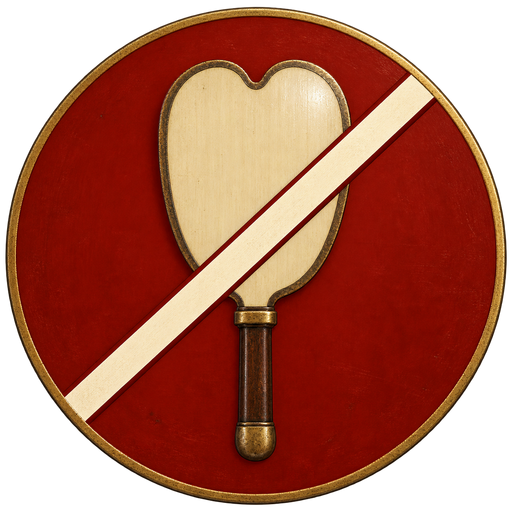
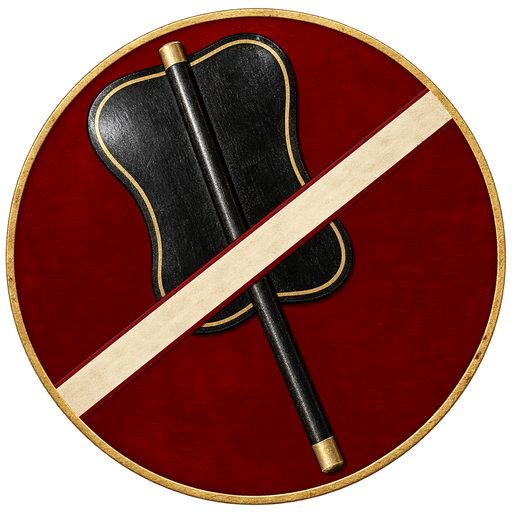
Redraw gunbai from user-provided historical object reference

diff --git a/素材/状态图标/v1/README.md b/素材/状态图标/v1/README.md
@@ -3,7 +3,7 @@
 本目录提供两个独立的状态图标，均为**暗朱红实心圆章、圆外透明**，尚未接入 TTS Global Lua：
 
 - **交戦 / `engaged`**：象牙色交叉太刀。沿用用户选定的红色版本，三份图标导出和既有定位均保持 revision 4 原样。
-- **指揮外 / `out_of_command`**：较写实的战国漆木军配，配以克制的旧金属包边和材质质感、象牙色斜杠及暗朱红圆章；此次去除粗黑卡通轮廓。
+- **指揮外 / `out_of_command`**：根据用户上传的实物军配照片从零绘制。黑漆扇面两侧内凹收腰、上下角圆弧，带细金边；中央黑木脊贯穿扇面并延成长柄，柄端为金色柄帽。军配倾斜约 25°，去除参考照片中的全部文字，保留象牙斜杠与暗朱红圆章。
 
 两者都按 **100 × 100** 显示，分别位于标题栏左右两侧，**可以同时出现，不能作为互斥状态复用一个位置**。
 
@@ -16,7 +16,7 @@
 | `engaged` | [engaged.png](./engaged.png) | 512 × 512 | 3 / 4 / 3 / 4 px |
 | `engaged` | [engaged-100.png](./engaged-100.png) | 100 × 100 | 0 / 0 / 0 / 0 px |
 | `engaged` | [源图/engaged-1024.png](./源图/engaged-1024.png) | 1024 × 1024 | 10 / 12 / 10 / 12 px |
-| `out_of_command` | [out_of_command.png](./out_of_command.png) | 512 × 512 | 3 / 4 / 3 / 5 px |
+| `out_of_command` | [out_of_command.png](./out_of_command.png) | 512 × 512 | 3 / 6 / 3 / 5 px |
 | `out_of_command` | [out_of_command-100.png](./out_of_command-100.png) | 100 × 100 | 0 / 0 / 0 / 0 px |
 | `out_of_command` | [源图/out_of_command-1024.png](./源图/out_of_command-1024.png) | 1024 × 1024 | 10 / 13 / 10 / 14 px |
 
@@ -37,7 +37,7 @@
 
 ## 历史预览 · revision 5 旧稿
 
-**以下指揮外和双状态预览均保留 revision 5 旧稿，不显示本次 revision 6 的新版图标，不能作为当前效果。** 文件原样保留；manifest 已将这些引用移入 `previous_revision_previews`。交戦素材本轮未改动，其既有预览另行保留。
+**以下指揮外和双状态预览均保留 revision 5 旧稿，不显示本次 revision 7 的新版图标，不能作为当前效果。** 文件原样保留；manifest 已将这些引用移入 `previous_revision_previews`。交戦素材本轮未改动，其既有预览另行保留。
 
 [revision 5 指揮外与双状态旧总览](./out_of_command_总览.jpg) · [交戦既有总览](./总览.jpg)
 
@@ -59,7 +59,7 @@
 
 ## 代码侧交接
 
-- 本次为 **`revision: 6`**，重绘 `out_of_command` 为较写实的战国风格，仍按 100 × 100 显示，左上 `(892,56)`、中心 `(942,106)`。本轮不更新预览，当前效果以独立图标为准。`engaged` 的既有 manifest 条目、三个 PNG 导出及定位保持不变；红色图标仍与 revision 2（提交 `abadd9f`）一致。
+- 本次为 **`revision: 7`**，依据用户上传的实物照片从零重画 `out_of_command` 并去除全部文字，仍按 100 × 100 显示，左上 `(892,56)`、中心 `(942,106)`。本轮不更新预览，当前效果以独立图标为准。`engaged` 的既有 manifest 条目、三个 PNG 导出及定位保持不变；红色图标仍与 revision 2（提交 `abadd9f`）一致。
 - 固定标识为 `engaged` 和 `out_of_command`，分别登记资源并独立控制显示／隐藏。两者允许同时显示，不能互斥切换同一节点或复用同一坐标。
 - 两个 `cloud_url` 均为空。仓库预览链接不代表已配置或已验证的 TTS 图片资源；需要代码侧选定图片托管、登记资源并验证加载。
 - 本稿仅交接图片、尺寸和定位。状态如何触发、保存／恢复及清除由代码侧按已确认规则处理；这里不推测交战或指挥范围的自动判定、回合重置等逻辑。
